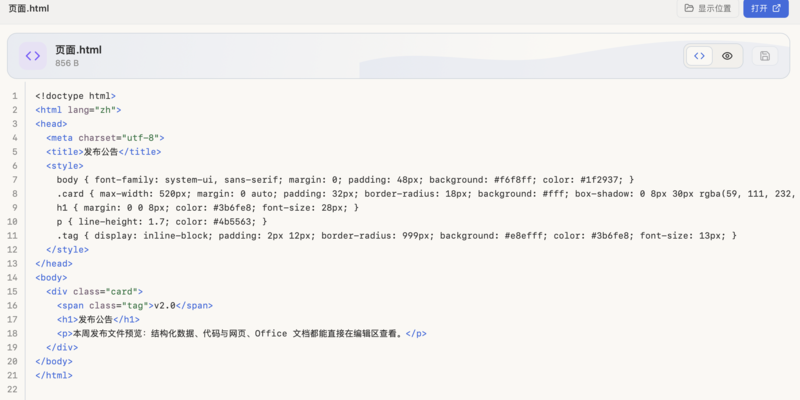
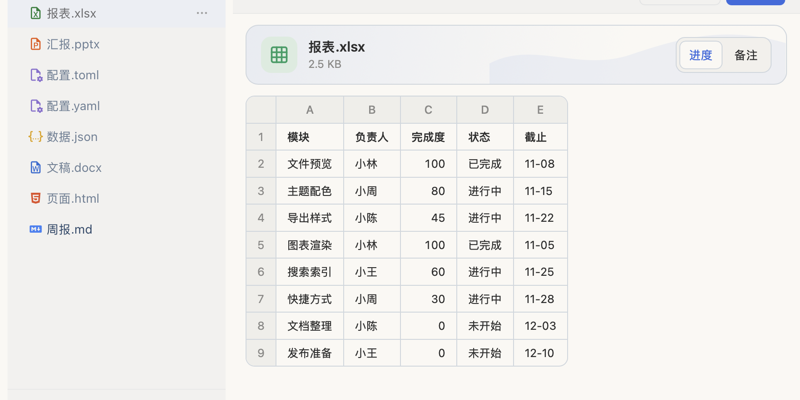
feat(ignorance.file-viewers): per-language syntax highlighting, new store images
The code viewer now has separate rules for JavaScript, TypeScript, Python,
Java, Go, Rust, C/C++, shell, SQL, INI, CSS and HTML (style and script
bodies use the CSS and JavaScript rules). Store images are real Typora
window screenshots.

diff --git a/extensions/ignorance.file-viewers/viewers/code/highlight.js b/extensions/ignorance.file-viewers/viewers/code/highlight.js
@@ -1,0 +1,159 @@
+// Syntax highlighting for the code viewer. One pass of a combined regular expression per language,
+// no dependencies. The output keeps every character of the source (text is only wrapped in spans),
+// so it can sit under the transparent textarea without shifting the caret.
+(function () {
+  const words = (list) => `\\b(?:${list.trim().split(/\s+/).join("|")})\\b`;
+  const DQ = String.raw`"(?:\\[\s\S]|[^"\\\n])*"`;
+  const SQ = String.raw`'(?:\\[\s\S]|[^'\\\n])*'`;
+  const TPL = String.raw`\`(?:\\[\s\S]|[^\`\\])*\``;
+  const NUM = String.raw`\b(?:0[xX][\da-fA-F_]+|0[bB][01_]+|\d[\d_]*(?:\.\d+)?(?:[eE][+-]?\d+)?)[a-zA-Z]*\b`;
+  const CALL = String.raw`\b[A-Za-z_$][\w$]*(?=\s*\()`;
+  const TYPE = String.raw`\b[A-Z][A-Za-z0-9_]*\b`;
+  const BLOCK_COMMENT = String.raw`\/\*[\s\S]*?\*\/`;
+  const LINE_COMMENT = String.raw`\/\/[^\n]*`;
+
+  const KEYWORDS = {
+    js: "async await break case catch class const continue debugger default delete do else export extends finally for from function if import in instanceof let new of return static super switch this throw try typeof var void while with yield as get set",
+    ts: "abstract declare enum implements interface keyof namespace private protected public readonly type is satisfies infer unknown never any string number boolean object symbol bigint",
+    python: "and as assert async await break class continue def del elif else except finally for from global if import in is lambda nonlocal not or pass raise return try while with yield match case self cls",
+    java: "abstract assert boolean break byte case catch char class const continue default do double else enum extends final finally float for goto if implements import instanceof int interface long native new package private protected public return short static strictfp super switch synchronized this throw throws transient try void volatile while var record sealed permits",
+    go: "break case chan const continue default defer else fallthrough for func go goto if import interface map package range return select struct switch type var string int int8 int16 int32 int64 uint uint8 uint16 uint32 uint64 float32 float64 bool byte rune error any",
+    rust: "as async await break const continue crate dyn else enum extern fn for if impl in let loop match mod move mut pub ref return self Self static struct super trait type unsafe use where while i8 i16 i32 i64 i128 isize u8 u16 u32 u64 u128 usize f32 f64 bool char str",
+    c: "auto break case char class const constexpr continue default delete do double else enum explicit extern float for friend goto if inline int long namespace new noexcept operator private protected public register return short signed sizeof static struct switch template this throw try catch typedef typename union unsigned using virtual void volatile while bool nullptr override final",
+    shell: "if then elif else fi for while until do done in case esac function select return exit break continue local export readonly declare unset shift source alias echo cd test",
+    sql: "select from where group by order having insert into values update set delete create alter drop table index view database join inner outer left right full cross on as and or not in is like between exists distinct union all limit offset case when then else end primary key foreign references default unique check constraint with begin commit rollback asc desc count sum avg min max",
+  };
+  const LITERALS = "true false null undefined NaN Infinity None True False nil NULL iota";
+
+  // Each language is a list of [class, pattern] pairs, tried in order at every position.
+  const RULES = {};
+  const clike = (extra, strings = `${DQ}|${SQ}|${TPL}`) => [
+    ["c-cm", BLOCK_COMMENT],
+    ["c-cm", LINE_COMMENT],
+    ["c-str", strings],
+    ...extra,
+    ["c-attr", String.raw`@[A-Za-z_][\w.]*`],
+    ["c-num", NUM],
+    ["c-num", words(LITERALS)],
+    ["c-fn", CALL],
+    ["c-type", TYPE],
+  ];
+  RULES.js = clike([["c-kw", words(KEYWORDS.js)]]);
+  RULES.ts = clike([["c-kw", words(`${KEYWORDS.js} ${KEYWORDS.ts}`)]]);
+  RULES.java = clike([["c-kw", words(KEYWORDS.java)]]);
+  RULES.go = clike([["c-kw", words(KEYWORDS.go)]]);
+  RULES.rust = clike([["c-attr", String.raw`#!?\[[^\]\n]*\]`], ["c-kw", words(KEYWORDS.rust)]], String.raw`${DQ}|'(?:\\.|[^'\\\n])'`);
+  RULES.c = clike([["c-attr", String.raw`^[ \t]*#[ \t]*\w+`], ["c-str", String.raw`<[\w./]+\.h>`], ["c-kw", words(KEYWORDS.c)]]);
+  RULES.python = [
+    ["c-cm", String.raw`#[^\n]*`],
+    ["c-str", String.raw`"""[\s\S]*?"""|'''[\s\S]*?'''|${DQ}|${SQ}`],
+    ["c-attr", String.raw`^[ \t]*@[A-Za-z_][\w.]*`],
+    ["c-kw", words(KEYWORDS.python)],
+    ["c-num", NUM],
+    ["c-num", words(LITERALS)],
+    ["c-fn", CALL],
+    ["c-type", TYPE],
+  ];
+  RULES.shell = [
+    ["c-cm", String.raw`#[^\n]*`],
+    ["c-str", `${DQ}|${SQ}`],
+    ["c-var", String.raw`\$(?:\{[^}\n]*\}|[\w@#?*$!-]+)`],
+    ["c-kw", words(KEYWORDS.shell)],
+    ["c-num", NUM],
+    ["c-fn", String.raw`\b[A-Za-z_][\w-]*(?=\s*\(\))`],
+  ];
+  RULES.sql = [
+    ["c-cm", String.raw`--[^\n]*|${BLOCK_COMMENT}`],
+    ["c-str", SQ],
+    ["c-kw", words(KEYWORDS.sql)],
+    ["c-num", NUM],
+    ["c-num", words(LITERALS)],
+    ["c-fn", CALL],
+  ];
+  RULES.ini = [
+    ["c-cm", String.raw`^[ \t]*[;#][^\n]*`],
+    ["c-tag", String.raw`^[ \t]*\[[^\]\n]+\]`],
+    ["c-attr", String.raw`^[ \t]*[\w.-]+(?=[ \t]*[=:])`],
+    ["c-str", `${DQ}|${SQ}`],
+    ["c-num", NUM],
+    ["c-num", words("true false yes no on off null")],
+  ];
+  RULES.css = [
+    ["c-cm", BLOCK_COMMENT],
+    ["c-str", `${DQ}|${SQ}`],
+    ["c-kw", String.raw`@[\w-]+`],
+    ["c-num", String.raw`#[0-9a-fA-F]{3,8}\b`],
+    ["c-num", String.raw`-?\b\d[\d.]*(?:px|em|rem|%|vh|vw|vmin|vmax|ch|s|ms|deg|fr)?`],
+    ["c-var", String.raw`--[\w-]+`],
+    ["c-attr", String.raw`[\w-]+(?=\s*:(?!:)(?=[^{}]*[;}]))`],
+    ["c-fn", String.raw`[\w-]+(?=\()`],
+    ["c-tag", String.raw`[.#][A-Za-z_][\w-]*|::?[A-Za-z-]+(?=[\s,{:)>+~]|$)`],
+  ];
+  RULES.html = [
+    ["c-cm", String.raw`<!--[\s\S]*?-->`],
+    ["c-attr", String.raw`<![A-Za-z][^>]*>`],
+    ["c-str", String.raw`"[^"]*"|'[^']*'`],
+    ["c-tag", String.raw`<\/?[A-Za-z][\w:-]*|\/?>`],
+    ["c-attr", String.raw`[\w:@.-]+(?==)`],
+    ["c-var", String.raw`&[#\w]+;`],
+  ];
+
+  const EXTENSIONS = {
+    js: "js", mjs: "js", cjs: "js", jsx: "js", ts: "ts", tsx: "ts",
+    py: "python", java: "java", go: "go", rs: "rust",
+    c: "c", cpp: "c", h: "c", sh: "shell", zsh: "shell", sql: "sql", ini: "ini",
+    css: "css", html: "html", htm: "html", xml: "html",
+  };
+
+  const esc = (s) => s.replace(/&/g, "&amp;").replace(/</g, "&lt;").replace(/>/g, "&gt;");
+  const compiled = new Map();
+
+  function scanner(lang) {
+    if (!compiled.has(lang)) {
+      const rules = RULES[lang];
+      const flags = lang === "sql" ? "gmi" : "gm";
+      compiled.set(lang, { classes: rules.map(([name]) => name), re: new RegExp(rules.map(([, p]) => `(${p})`).join("|"), flags) });
+    }
+    return compiled.get(lang);
+  }
+
+  function tokens(lang, src) {
+    const { classes, re } = scanner(lang);
+    let out = "";
+    let last = 0;
+    re.lastIndex = 0;
+    let match;
+    while ((match = re.exec(src))) {
+      if (match[0] === "") {
+        re.lastIndex++;
+        continue;
+      }
+      const group = match.findIndex((value, index) => index > 0 && value !== undefined) - 1;
+      out += esc(src.slice(last, match.index)) + `<span class="${classes[group]}">${esc(match[0])}</span>`;
+      last = match.index + match[0].length;
+    }
+    return out + esc(src.slice(last));
+  }
+
+  // <style> and <script> bodies inside HTML use the CSS and JavaScript rules.
+  function html(src) {
+    const embedded = /(<(style|script)\b[^>]*>)([\s\S]*?)(<\/\2\s*>)/gi;
+    let out = "";
+    let last = 0;
+    let match;
+    while ((match = embedded.exec(src))) {
+      const [, open, tag, body, close] = match;
+      out += tokens("html", src.slice(last, match.index)) + tokens("html", open) + tokens(tag.toLowerCase() === "style" ? "css" : "js", body) + tokens("html", close);
+      last = match.index + match[0].length;
+    }
+    return out + tokens("html", src.slice(last));
+  }
+
+  function highlight(ext, src) {
+    const lang = EXTENSIONS[String(ext).toLowerCase()];
+    if (!lang) return esc(src);
+    return lang === "html" ? html(src) : tokens(lang, src);
+  }
+
+  globalThis.codeHighlight = { highlight, EXTENSIONS };
+})();

diff --git a/extensions/ignorance.file-viewers/viewers/code/viewer.js b/extensions/ignorance.file-viewers/viewers/code/viewer.js
@@ -1,4 +1,4 @@
-// Code viewer page (L1, sandboxed): source with line numbers, light syntax colours and plain
+// Code viewer page (L1, sandboxed): source with line numbers, syntax colours (highlight.js) and plain
 // editing; HTML files also get a sandboxed preview of the current buffer.
 const view = window.typora.view;
 const $ = (id) => document.getElementById(id);
@@ -7,54 +7,13 @@ let ext = "";
 let saved = "";
 let readonly = true;
 
-const KEYWORDS = {
-  c: "if else for while do return function const let var class new import export from default switch case break continue try catch finally throw async await typeof instanceof in of null undefined true false this void static public private protected interface type enum extends implements package func fn pub use mut struct impl match go chan defer range int string bool float double char long short unsigned include define self super as where trait mod crate",
-  hash: "if elif else fi for while do done then in def class return import from as with try except finally raise lambda None True False and or not is pass yield async await function local export echo case esac select where group by order having insert into values update set delete create table null limit join on and or not",
-};
-const kwRe = (list) => `\\b(?:${list.trim().split(/\s+/).join("|")})\\b`;
-const FAMILY = {
-  c: new RegExp(`(\\/\\/[^\\n]*|\\/\\*[\\s\\S]*?\\*\\/)|("(?:\\\\.|[^"\\\\\\n])*"|'(?:\\\\.|[^'\\\\\\n])*'|\`(?:\\\\.|[^\`\\\\])*\`)|(\\b\\d[\\w.]*\\b)|(${kwRe(KEYWORDS.c)})`, "g"),
-  hash: new RegExp(`(#[^\\n]*|--[^\\n]*)|("(?:\\\\.|[^"\\\\\\n])*"|'(?:\\\\.|[^'\\\\\\n])*')|(\\b\\d[\\w.]*\\b)|(${kwRe(KEYWORDS.hash)})`, "gi"),
-  css: /(\/\*[\s\S]*?\*\/)|("(?:\\.|[^"\\\n])*"|'(?:\\.|[^'\\\n])*')|(#[0-9a-fA-F]{3,8}\b|\b\d[\d.]*(?:px|em|rem|%|vh|vw|s|ms|deg)?\b)|(@[\w-]+|[\w-]+(?=\s*:(?!:)))/g,
-  html: /(<!--[\s\S]*?-->)|("[^"]*"|'[^']*')|(<\/?[A-Za-z][\w:-]*|\/?>)|([\w:@-]+(?==))/g,
-};
-const CLASSES = {
-  html: ["c-cm", "c-str", "c-tag", "c-attr"],
-  other: ["c-cm", "c-str", "c-num", "c-kw"],
-};
-const family = (e) => {
-  if (e === "html" || e === "htm" || e === "xml") return "html";
-  if (e === "css") return "css";
-  if (["py", "sh", "zsh", "ini", "sql", "toml", "yaml", "yml"].includes(e)) return "hash";
-  return "c";
-};
-const esc = (s) => s.replace(/&/g, "&amp;").replace(/</g, "&lt;").replace(/>/g, "&gt;");
-
-function highlight(src) {
-  const fam = family(ext);
-  const classes = fam === "html" ? CLASSES.html : CLASSES.other;
-  const re = FAMILY[fam];
-  re.lastIndex = 0;
-  let out = "";
-  let last = 0;
-  let m;
-  while ((m = re.exec(src))) {
-    if (m[0] === "") { re.lastIndex++; continue; }
-    out += esc(src.slice(last, m.index));
-    const g = m.slice(1).findIndex((x) => x !== undefined);
-    out += `<span class="${classes[g]}">${esc(m[0])}</span>`;
-    last = m.index + m[0].length;
-  }
-  return out + esc(src.slice(last));
-}
-
 function showSize(size) {
   $("info").textContent = size > 1024 ? `${(size / 1024).toFixed(1)} KB` : `${size} B`;
 }
 
 function refresh() {
   const text = ta.value;
-  $("hl").innerHTML = highlight(text) + "\n";
+  $("hl").innerHTML = globalThis.codeHighlight.highlight(ext, text) + "\n";
   const lines = text.split("\n").length;
   $("gutter").textContent = Array.from({ length: lines }, (_, i) => i + 1).join("\n");
   const isDirty = text !== saved;

diff --git a/extensions/ignorance.file-viewers/viewers/code/viewer.css b/extensions/ignorance.file-viewers/viewers/code/viewer.css
@@ -16,6 +16,14 @@ main { flex: 1; min-height: 0; display: flex; }
 .c-kw { color: var(--accent); font-weight: 500; }
 .c-tag { color: var(--accent); }
 .c-attr { color: color-mix(in srgb, var(--accent) 50%, #b45309); }
-@media (prefers-color-scheme: dark) { .c-str { color: #86efac; } }
+.c-fn { color: color-mix(in srgb, var(--accent) 55%, #7c3aed); }
+.c-type { color: color-mix(in srgb, var(--accent) 45%, #0e7490); }
+.c-var { color: color-mix(in srgb, var(--fg) 55%, #b45309); }
+@media (prefers-color-scheme: dark) {
+  .c-str { color: #86efac; }
+  .c-fn { color: color-mix(in srgb, var(--accent) 50%, #d8b4fe); }
+  .c-type { color: color-mix(in srgb, var(--accent) 45%, #67e8f9); }
+  .c-var { color: color-mix(in srgb, var(--fg) 50%, #fdba74); }
+}
 
 #dirty { display: inline-flex; }

diff --git a/extensions/ignorance.file-viewers/viewers/code/index.html b/extensions/ignorance.file-viewers/viewers/code/index.html
@@ -5,6 +5,7 @@
     <link rel="stylesheet" href="../shared.css" />
     <link rel="stylesheet" href="viewer.css" />
     <script src="../../__typora/view.js"></script>
+    <script src="highlight.js" defer></script>
     <script src="viewer.js" defer></script>
   </head>
   <body>

diff --git a/extensions/ignorance.file-viewers/README.md b/extensions/ignorance.file-viewers/README.md
@@ -7,13 +7,13 @@
 | 类型 | 扩展名 | 预览方式 |
 |---|---|---|
 | 结构化数据 | json、yaml、yml、toml、xml | 可折叠的树，可切到源码；解析出错时显示错误并回到源码；大于 3MB 只显示源码 |
-| 代码与网页 | html、htm、css、js、mjs、cjs、ts、tsx、jsx、py、java、go、rs、c、cpp、h、sh、zsh、sql、ini | 带行号和简易着色的源码，可编辑并保存（Tab 缩进、⌘S）；HTML 另有预览模式 |
+| 代码与网页 | html、htm、css、js、mjs、cjs、ts、tsx、jsx、py、java、go、rs、c、cpp、h、sh、zsh、sql、ini | 带行号和语法着色的源码（关键字、函数、类型、字符串、注释、数字、装饰器；HTML 内嵌的 style 和 script 按 CSS 和 JavaScript 着色），可编辑并保存（Tab 缩进、⌘S）；HTML 另有预览模式 |
 | Office 文档 | docx、xlsx、pptx | 只读：docx 转为文档，xlsx 按工作表显示，pptx 按页显示文字 |
 
 ## 限制
 
 - HTML 预览在沙箱 iframe 中渲染当前编辑内容，页面脚本不执行，相对路径的样式和图片不加载。
-- 代码着色是简易正则，不处理 HTML 内嵌的 script 与 style。
+- 代码着色是按语言的正则规则，不做语法解析：JavaScript 的正则字面量、模板字符串里的表达式、Python 的 f-string 内部不单独着色；Rust 的生命周期、C 的宏参数按普通文本处理。
 - Office 只支持 docx、xlsx、pptx。xlsx 日期显示为序列号、公式只显示缓存值、不合并单元格；pptx 看不到图片与图表；docx 的页眉页脚、文本框会丢失。
 
 ## 第三方库
